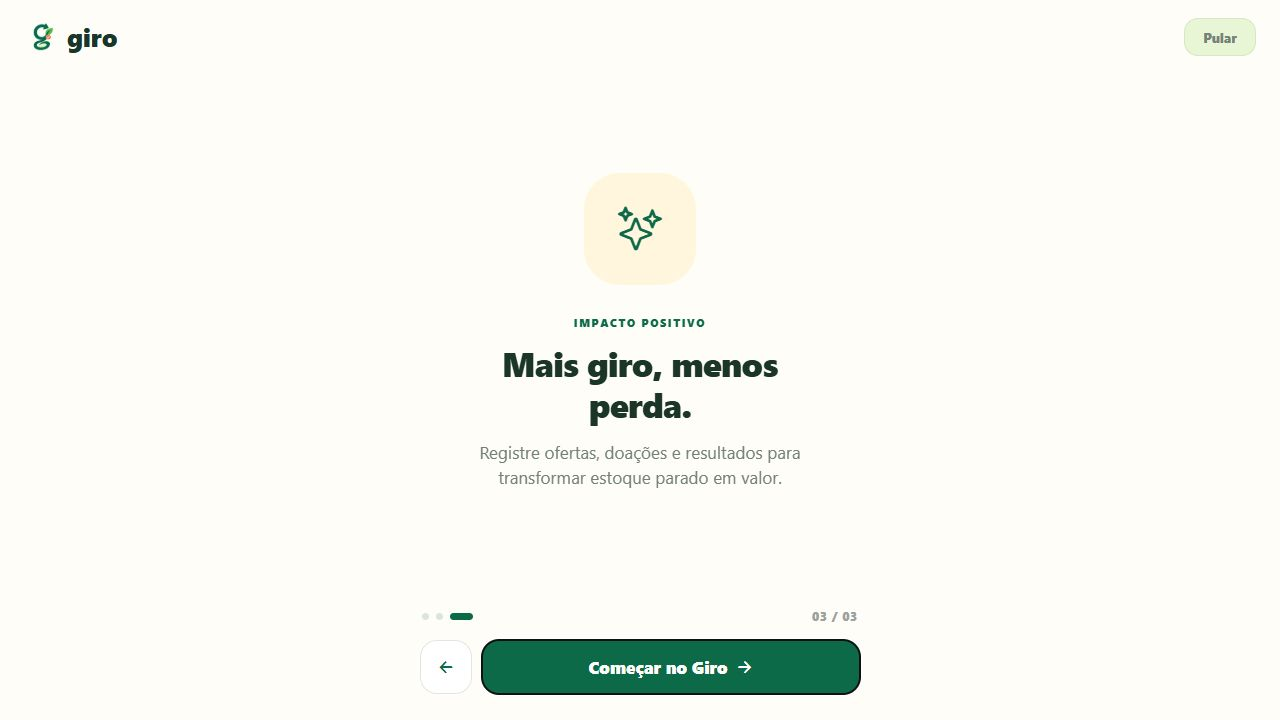
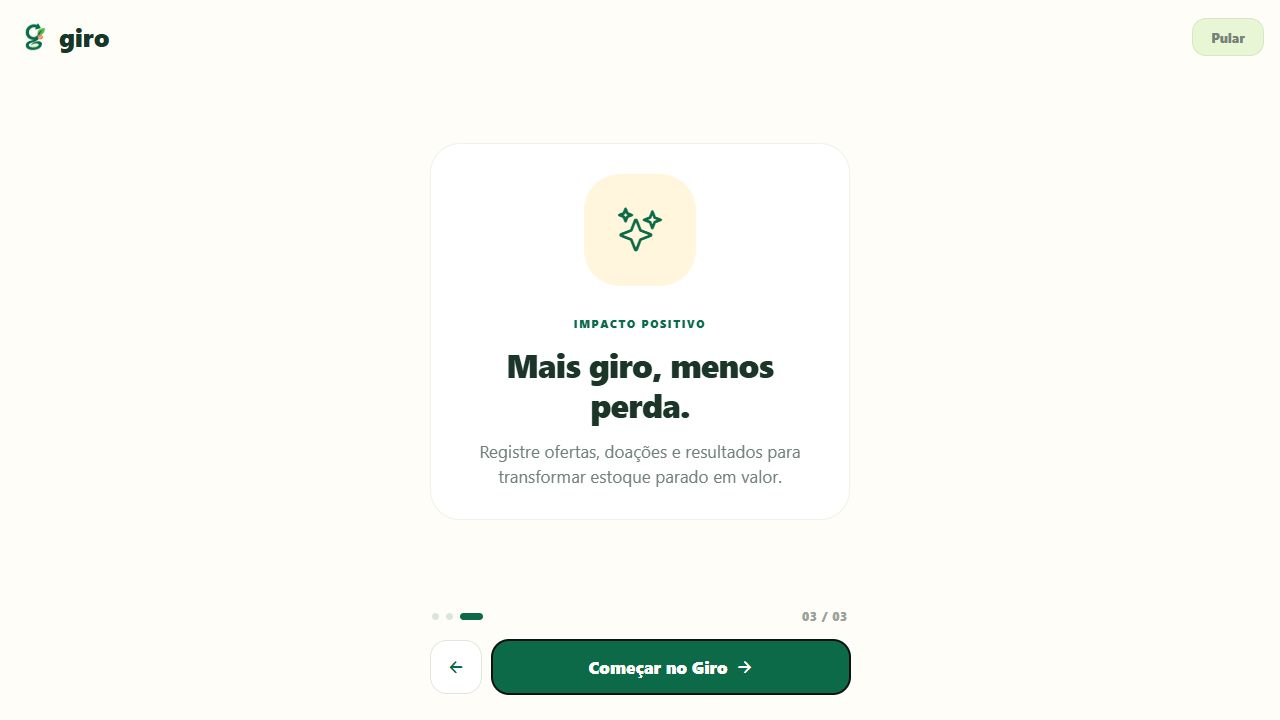
fix: deixar onboarding mais confortavel no celular

diff --git a/src/styles/appStyles.js b/src/styles/appStyles.js
@@ -138,19 +138,20 @@ const styles = StyleSheet.create({
   authNote: { color: "#9AA49D", fontSize: 10, textAlign: "center", marginTop: 22 },
   authBack: { flexDirection: "row", alignItems: "center", gap: 7, marginBottom: 26 },
   authBackText: { color: "#0D6A49", fontSize: 12, fontWeight: "800" },
-  onboardingScreen: { flex: 1, backgroundColor: "#FFFDF8", paddingHorizontal: 24, paddingTop: 18, paddingBottom: 26 },
+  onboardingScreen: { flex: 1, backgroundColor: "#FFFDF8", paddingHorizontal: 16, paddingTop: 18, paddingBottom: 26 },
   onboardingTop: { flexDirection: "row", alignItems: "center", justifyContent: "space-between", marginBottom: 8 },
   onboardingBrand: { flexDirection: "row", alignItems: "center", gap: 7 },
   onboardingLogo: { width: 36, height: 36 },
   onboardingBrandText: { color: "#18362A", fontSize: 23, fontWeight: "900" },
   onboardingSkip: { color: "#75847A", fontSize: 12, fontWeight: "800" },
   onboardingSkipButton: { minWidth: 72, height: 38, paddingHorizontal: 14, borderRadius: 14, borderWidth: 1, borderColor: "#D5E7C7", backgroundColor: "#E9F6D5", alignItems: "center", justifyContent: "center" },
-  onboardingBody: { flex: 1, width: "100%", maxWidth: 440, alignSelf: "center", justifyContent: "center", alignItems: "center", paddingHorizontal: 20, paddingVertical: 24 },
+  onboardingBody: { flex: 1, alignSelf: "stretch", justifyContent: "center", alignItems: "center", paddingHorizontal: 0, paddingVertical: 20 },
+  onboardingCard: { alignSelf: "center", width: "100%", maxWidth: 420, paddingHorizontal: 24, paddingVertical: 30, borderRadius: 30, borderWidth: 1, borderColor: "#EEF1EC", backgroundColor: "#FFFFFF", alignItems: "center" },
   onboardingIcon: { width: 112, height: 112, borderRadius: 36, alignItems: "center", justifyContent: "center", marginBottom: 30 },
   onboardingEyebrow: { color: "#0D6A49", fontSize: 10, fontWeight: "900", letterSpacing: 1.5, textAlign: "center", marginBottom: 13 },
-  onboardingTitle: { color: "#1B3528", fontSize: 31, lineHeight: 37, fontWeight: "900", textAlign: "center", letterSpacing: -0.8, maxWidth: 370 },
+  onboardingTitle: { color: "#1B3528", fontSize: 30, lineHeight: 36, fontWeight: "900", textAlign: "center", letterSpacing: -0.8, maxWidth: 310 },
   onboardingText: { color: "#718078", fontSize: 15, lineHeight: 23, textAlign: "center", marginTop: 15, maxWidth: 340 },
-  onboardingBottom: { width: "100%", maxWidth: 440, alignSelf: "center", paddingTop: 10 },
+  onboardingBottom: { alignSelf: "center", width: "100%", maxWidth: 420, paddingTop: 10 },
   onboardingProgressRow: { flexDirection: "row", alignItems: "center", justifyContent: "space-between", marginBottom: 16, paddingHorizontal: 2 },
   onboardingDots: { flexDirection: "row", alignItems: "center", gap: 7 },
   onboardingDot: { width: 7, height: 7, borderRadius: 4, backgroundColor: "#DDE5DA" },

diff --git a/src/screens/OnboardingScreen.jsx b/src/screens/OnboardingScreen.jsx
@@ -73,12 +73,14 @@ export default function OnboardingScreen({ onFinish, styles }) {
         </Pressable>
       </View>
       <Animated.View style={[styles.onboardingBody, { opacity: fade }]}>
-        <View style={[styles.onboardingIcon, { backgroundColor: slide.color }]}>
-          <Ionicons name={slide.icon} size={44} color="#0D6A49" />
+        <View style={styles.onboardingCard}>
+          <View style={[styles.onboardingIcon, { backgroundColor: slide.color }]}>
+            <Ionicons name={slide.icon} size={44} color="#0D6A49" />
+          </View>
+          <Text style={styles.onboardingEyebrow}>{slide.eyebrow}</Text>
+          <Text style={styles.onboardingTitle}>{slide.title}</Text>
+          <Text style={styles.onboardingText}>{slide.text}</Text>
         </View>
-        <Text style={styles.onboardingEyebrow}>{slide.eyebrow}</Text>
-        <Text style={styles.onboardingTitle}>{slide.title}</Text>
-        <Text style={styles.onboardingText}>{slide.text}</Text>
       </Animated.View>
       <View style={styles.onboardingBottom}>
         <View style={styles.onboardingProgressRow}>
